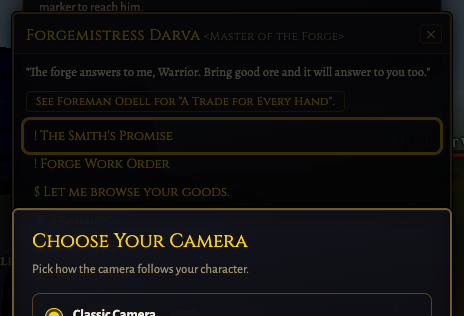
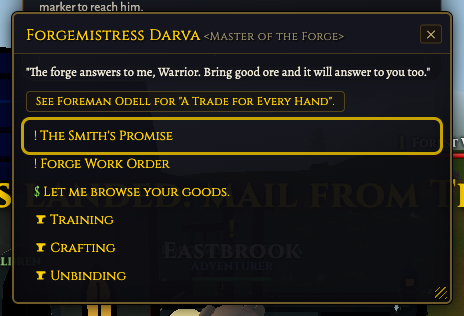
fix(ui): clean gossip Crafting shortcut shots and aria copy
Seed the camera-mode prompt flag and strip residual overlays in the
screenshot target so the after-dialog frames show Training/Crafting/
Unbinding instead of the first-run camera modal. Soften the English aria
to "for {craft}", pin that every variant has a beforeLoad, and merge
release/v0.34.0 so the branch is current before merge.

diff --git a/tests/pr_shot_targets.test.ts b/tests/pr_shot_targets.test.ts
@@ -328,5 +328,13 @@ describe('diffChangedPaths', () => {
       'dialog-mobile',
       'window-desktop',
     ]);
+    // Every variant must seed the camera-mode prompt flag before the document
+    // loads: page.screenshot clips paint overlapping chrome into the dialog
+    // region, and a live prompt was covering the Crafting row in the after
+    // desktop dialog shot. beforeLoad is a function (evaluateOnNewDocument),
+    // so pin presence rather than its body string.
+    for (const variant of target?.variants ?? []) {
+      expect(typeof variant.beforeLoad, `${variant.key} beforeLoad`).toBe('function');
+    }
   });
 });

diff --git a/src/ui/i18n.resolved.generated/en_XA.ts b/src/ui/i18n.resolved.generated/en_XA.ts
@@ -2591,7 +2591,7 @@ export const en_XA: EnTranslations = {
       "title": "[Çŕáƒţíñĝ]",
       "close": "[Çļóšé çŕáƒţíñĝ]",
       "dialogOption": "[Çŕáƒţíñĝ]",
-      "dialogOptionAria": "[Óþéñ ţĥé çŕáƒţíñĝ ŵíñðóŵ ţó {craft}]",
+      "dialogOptionAria": "[Óþéñ ţĥé çŕáƒţíñĝ ŵíñðóŵ ƒóŕ {craft}]",
       "craft": "[Çŕáƒţ]",
       "reagentsNeeded": "[Ŕéɋúíŕéš:]",
       "reagentLine": "[{name} ẋ{have}/{required}]",

diff --git a/src/ui/i18n.catalog/hud_chrome.ts b/src/ui/i18n.catalog/hud_chrome.ts
@@ -3033,7 +3033,7 @@ export const hudChromeStrings = {
     // crafting window straight to the master's own craft tab. {craft} in the
     // aria is the localized craft name (craftName above).
     dialogOption: 'Crafting',
-    dialogOptionAria: 'Open the crafting window to {craft}',
+    dialogOptionAria: 'Open the crafting window for {craft}',
     craft: 'Craft',
     reagentsNeeded: 'Requires:',
     reagentLine: '{name} x{have}/{required}',

diff --git a/src/ui/i18n.resolved.generated/fr_CA.ts b/src/ui/i18n.resolved.generated/fr_CA.ts
@@ -2591,7 +2591,7 @@ export const fr_CA: EnTranslations = {
       "title": "Artisanat",
       "close": "Fermer la fabrication",
       "dialogOption": "Crafting",
-      "dialogOptionAria": "Open the crafting window to {craft}",
+      "dialogOptionAria": "Open the crafting window for {craft}",
       "craft": "Artisanat",
       "reagentsNeeded": "Nécessite$1",
       "reagentLine": "{name}: {have}/{required}",

diff --git a/src/ui/i18n.resolved.generated/fr_FR.ts b/src/ui/i18n.resolved.generated/fr_FR.ts
@@ -2591,7 +2591,7 @@ export const fr_FR: EnTranslations = {
       "title": "Artisanat",
       "close": "Fermer la fabrication",
       "dialogOption": "Crafting",
-      "dialogOptionAria": "Open the crafting window to {craft}",
+      "dialogOptionAria": "Open the crafting window for {craft}",
       "craft": "Artisanat",
       "reagentsNeeded": "Nécessite$1",
       "reagentLine": "{name}: {have}/{required}",

diff --git a/src/ui/i18n.resolved.generated/vi_VN.ts b/src/ui/i18n.resolved.generated/vi_VN.ts
@@ -2591,7 +2591,7 @@ export const vi_VN: EnTranslations = {
       "title": "Chế tạo",
       "close": "Đóng chế tạo",
       "dialogOption": "Crafting",
-      "dialogOptionAria": "Open the crafting window to {craft}",
+      "dialogOptionAria": "Open the crafting window for {craft}",
       "craft": "thủ công",
       "reagentsNeeded": "Yêu cầu:",
       "reagentLine": "{name}: {have}/{required}",

diff --git a/src/ui/i18n.resolved.generated/es_ES.ts b/src/ui/i18n.resolved.generated/es_ES.ts
@@ -2591,7 +2591,7 @@ export const es_ES: EnTranslations = {
       "title": "Elaboración",
       "close": "Cerrar elaboración",
       "dialogOption": "Crafting",
-      "dialogOptionAria": "Open the crafting window to {craft}",
+      "dialogOptionAria": "Open the crafting window for {craft}",
       "craft": "Artesanía",
       "reagentsNeeded": "Requiere:",
       "reagentLine": "{name}: {have}/{required}",

diff --git a/src/ui/i18n.resolved.generated/tr_TR.ts b/src/ui/i18n.resolved.generated/tr_TR.ts
@@ -2591,7 +2591,7 @@ export const tr_TR: EnTranslations = {
       "title": "işçiliği",
       "close": "İşçiliği kapat",
       "dialogOption": "Crafting",
-      "dialogOptionAria": "Open the crafting window to {craft}",
+      "dialogOptionAria": "Open the crafting window for {craft}",
       "craft": "Zanaat",
       "reagentsNeeded": "Gereklilikler:",
       "reagentLine": "{name}: {have}/{required}",

diff --git a/src/ui/i18n.resolved.generated/es.ts b/src/ui/i18n.resolved.generated/es.ts
@@ -2591,7 +2591,7 @@ export const es: EnTranslations = {
       "title": "Elaboración",
       "close": "Cerrar elaboración",
       "dialogOption": "Crafting",
-      "dialogOptionAria": "Open the crafting window to {craft}",
+      "dialogOptionAria": "Open the crafting window for {craft}",
       "craft": "Artesanía",
       "reagentsNeeded": "Requiere:",
       "reagentLine": "{name}: {have}/{required}",

diff --git a/src/ui/i18n.resolved.generated/it_IT.ts b/src/ui/i18n.resolved.generated/it_IT.ts
@@ -2591,7 +2591,7 @@ export const it_IT: EnTranslations = {
       "title": "Creazione",
       "close": "Chiudi la lavorazione",
       "dialogOption": "Crafting",
-      "dialogOptionAria": "Open the crafting window to {craft}",
+      "dialogOptionAria": "Open the crafting window for {craft}",
       "craft": "Mestiere",
       "reagentsNeeded": "Richiede:",
       "reagentLine": "{name}: {have}/{required}",

diff --git a/src/ui/i18n.resolved.generated/pl_PL.ts b/src/ui/i18n.resolved.generated/pl_PL.ts
@@ -2591,7 +2591,7 @@ export const pl_PL: EnTranslations = {
       "title": "Rzemiosło",
       "close": "Zamknij rzemiosło",
       "dialogOption": "Crafting",
-      "dialogOptionAria": "Open the crafting window to {craft}",
+      "dialogOptionAria": "Open the crafting window for {craft}",
       "craft": "Rzemiosło",
       "reagentsNeeded": "Wymaga:",
       "reagentLine": "{name}: {have}/{required}",

diff --git a/src/ui/i18n.resolved.generated/da_DK.ts b/src/ui/i18n.resolved.generated/da_DK.ts
@@ -2591,7 +2591,7 @@ export const da_DK: EnTranslations = {
       "title": "Håndværk",
       "close": "Tæt håndværk",
       "dialogOption": "Crafting",
-      "dialogOptionAria": "Open the crafting window to {craft}",
+      "dialogOptionAria": "Open the crafting window for {craft}",
       "craft": "Håndværk",
       "reagentsNeeded": "Kræver:",
       "reagentLine": "{name}: {have}/{required}",
